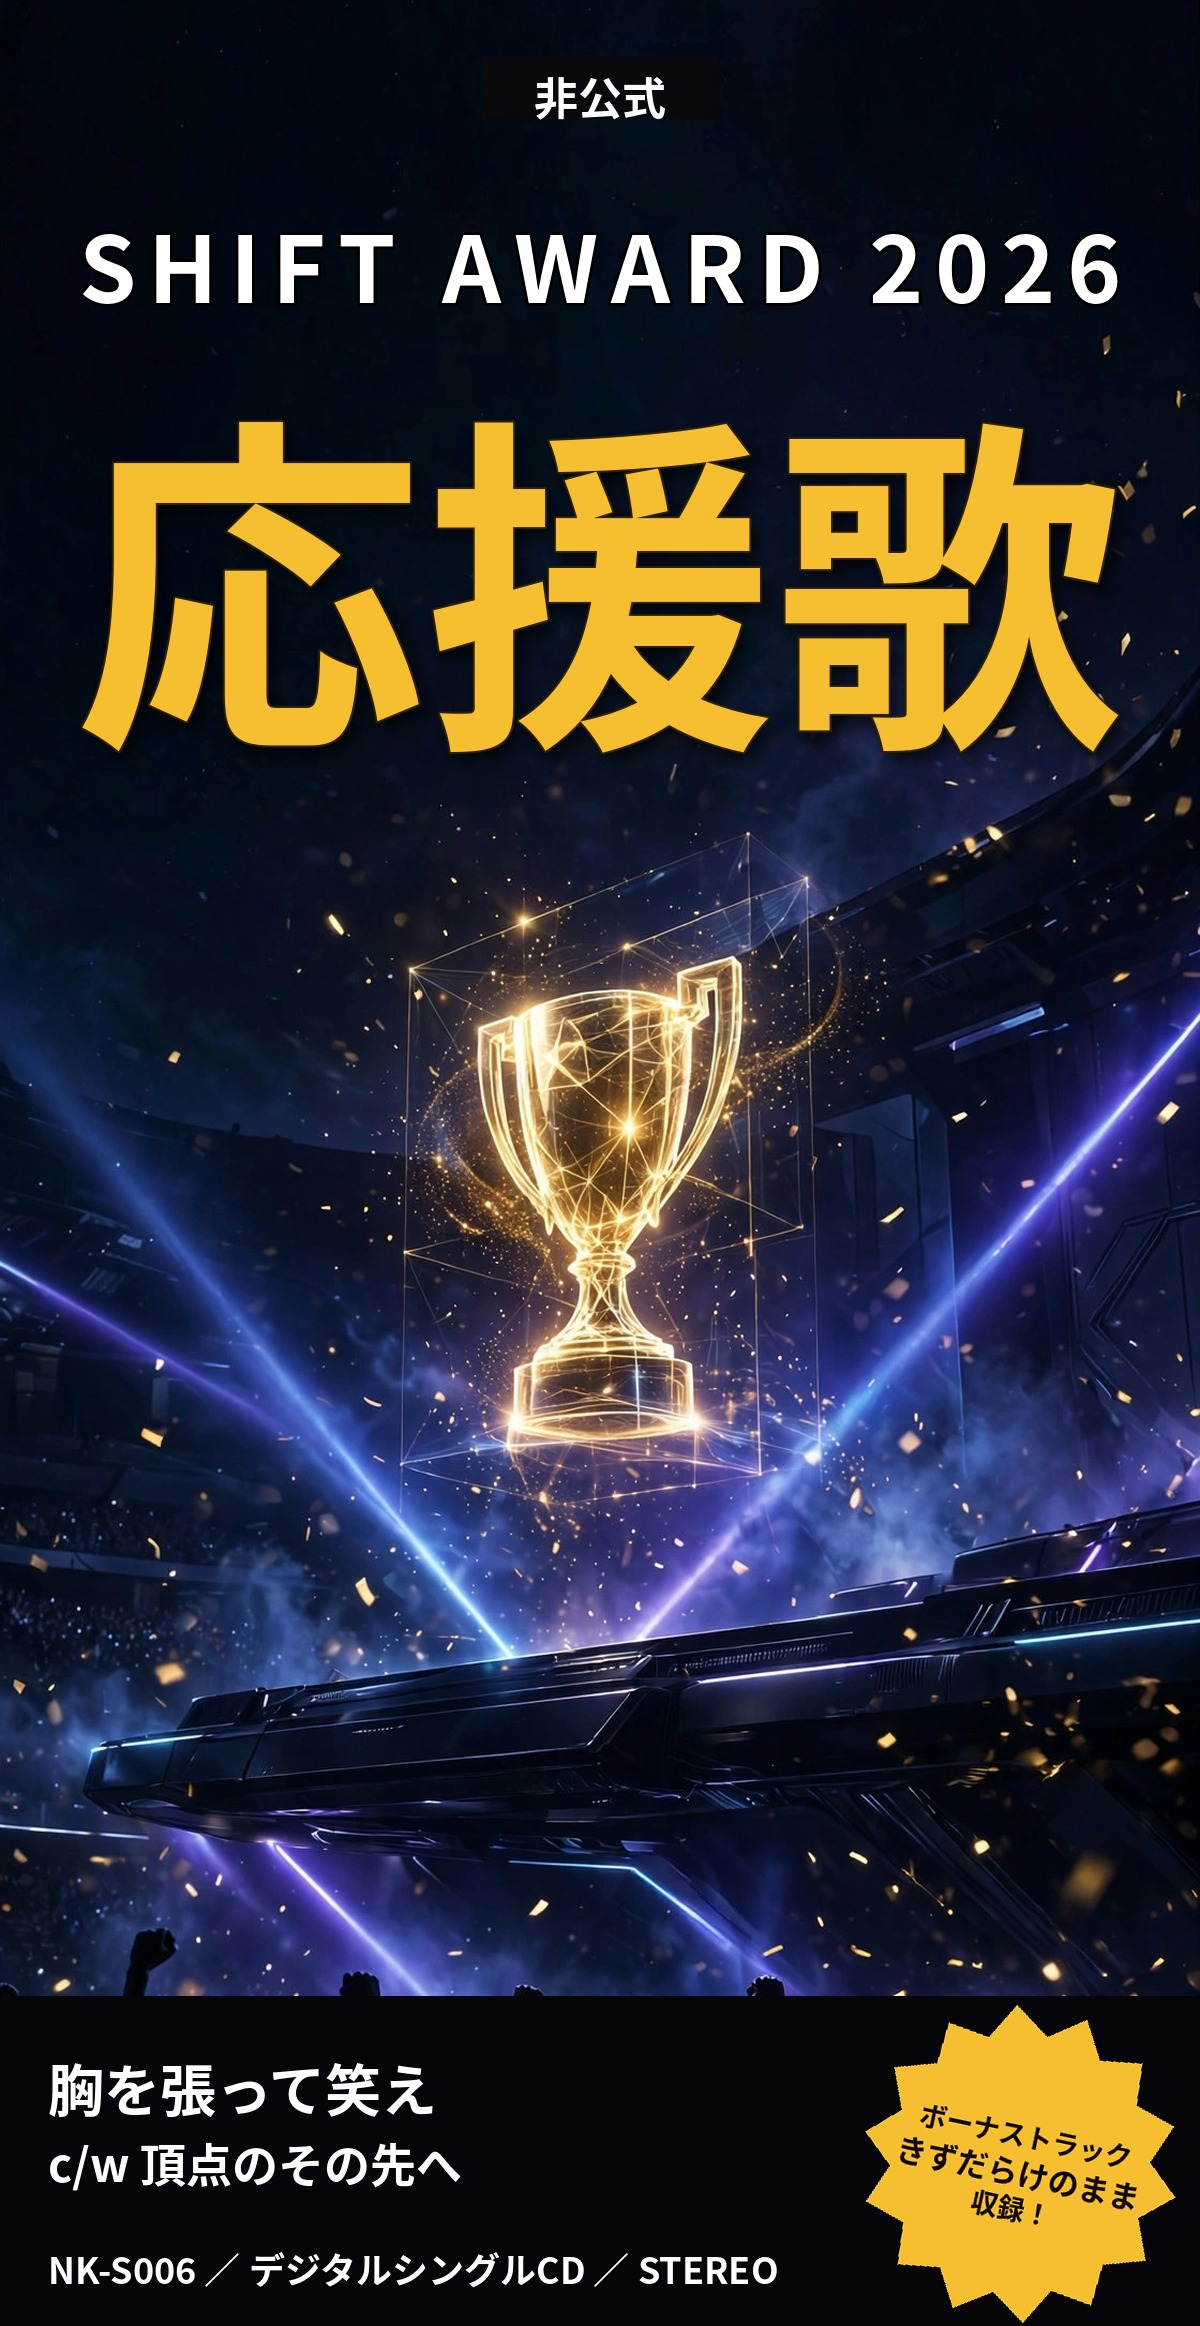
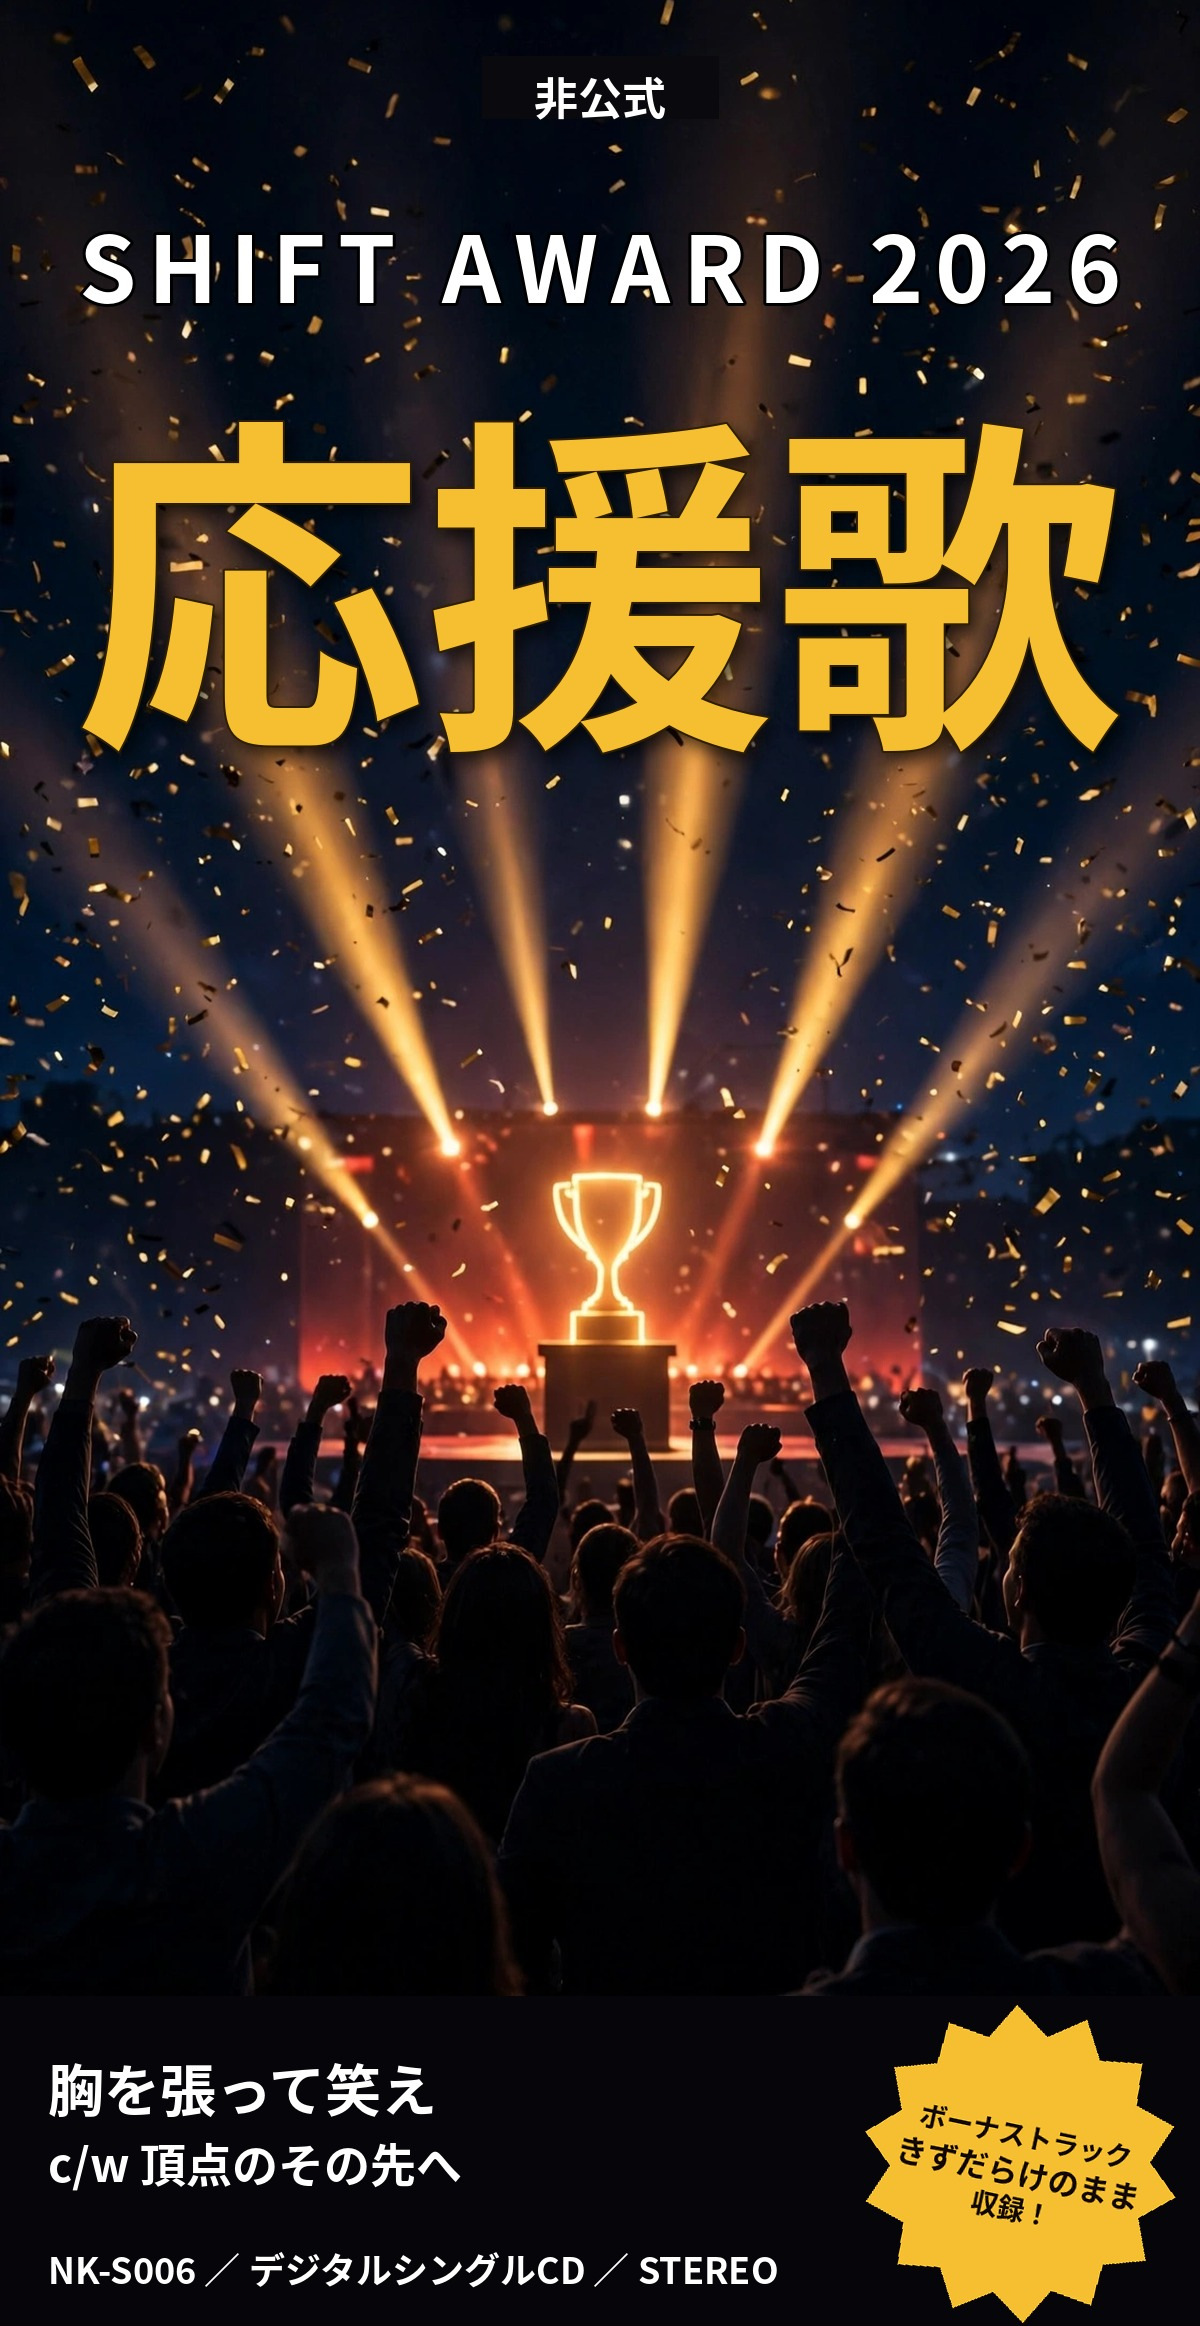
NK-S006 v1.1.1: 表ジャケットを絵A（授賞式ステージ）版に差し替え、アイコン再生成 (#10)

diff --git a/docs/HANDOVER.md b/docs/HANDOVER.md
@@ -1,6 +1,6 @@
 # 引き継ぎメモ
 
-更新: 2026-11-12・版 v1.1.0
+更新: 2026-11-12・版 v1.1.1
 
 【デジタルCD台帳反映用レポート】
 カタログ番号： NK-S006
@@ -8,7 +8,7 @@
 形態： シングル
 制作担当： NK-S006 制作チャット（Muse）
 状態： 確認待ち
-現行バージョン： 1.1.0
+現行バージョン： 1.1.1
 リポジトリ： tanabata-soft/aj85wu3vc2
 公開URL： https://tanabata-soft.github.io/aj85wu3vc2/
 収録曲数： 3
@@ -18,6 +18,7 @@ HANDOVER.md更新： 済
 
 ## 今の状態
 
+- v1.1.1（2026-11-12）: 表ジャケットを絵A（授賞式ステージ）版に差し替え（オーナー指示 2026-11-12。v1.1.0 で絵Cを採用したが、A・C の見比べの末に A へ変更。確認ポイント②の最終確定は絵A）。レイアウトは v1.1.0 の最終版と同一（上部中央の黒タグ「非公式」、間隔113px均等、下部黒帯＋星形シール）。アイコンも絵Aから再生成。ローカルは環境の書き込み障害のため未検証で、GitHub CI の check を関門とした（変更はジャケット・アイコン・版数のみ）。
 - v1.1.0（2026-11-12）: ボーナストラック『きずだらけのまま』を追加し全3曲に（オーナー指示 2026-11-12）。あわせて歌詞タップシーク（下記 v1.0.3 ローカル分）を同梱し、表ジャケットを刷新（絵C・ネオンアリーナ × シングルCD風デザイン、オーナー確定 2026-11-12。詳細は表ジャケットの項）。総再生時間 約8分41秒。ローカルの verify・e2e（18件）・shots 通過（検証結果の項参照）。単体プレビューは実行環境の書き込み制限（バンドル済みJSへの書き込みが EPERM で拒否される、2026-11-12 02:28頃から発生した環境側の問題）で再生成できず、実機確認は Pages の URL で行う。
 - v1.0.3（ローカルのみ・未公開、v1.1.0 に同梱）: 歌詞タップでその行から再生できるようにした（アルバム・シングル共通ルール、オーナー指示 2026-11-12。テンプレート digitalcd-engine commit 38b215d と同一の実装）。ドラッグによる歌詞スクロールではシークしない（タップ判定は移動量とスクロール量で分ける）。e2e にタップシーク／ドラッグではシークしないテストを追加（計18件）。シリーズ制作チャットがローカルに入れた変更で、単独では公開せず v1.1.0 に統合（2026-11-12 のチャット間調整）。
 - v1.1.0 公開記録: PR #7 を squash マージ（merge commit eb631ad5c3bfb2792f4ae6afab63ab8981a149b4）、ブランチ publish/nk-s006-v1.1.0 は削除済み。GitHub Pages 再デプロイ成功、https://tanabata-soft.github.io/aj85wu3vc2/ は HTTP 200、配信中 JS に version 1.1.0 と『きずだらけのまま』、新ジャケット（500,373 bytes）と track03 の音源アセットが含まれることを確認済み。CI の check は通過（e2e は従来どおりマージ条件にしていない）。今回は実行環境のシェル書き込み障害（後述）のため git push ではなく GitHub API（gh）でブランチ・コミットを作成した（author は従来どおり muse <muse@localhost>）。
@@ -32,7 +33,7 @@ HANDOVER.md更新： 済
   3. 『きずだらけのまま』ボーナストラック、Contemporary J-R&B、2:46（トリム後 166.42秒。素材は 2026-11-12 にオーナーが追加提出した MP4。アスファルトの裂け目から芽吹く双葉の絵）
 - 作業フォルダ: `~/workspace/single-nks006/repo/`（テンプレート `digitalcd-template` v1.0.0 をコピー。アプリID `nks006-shift-award`、version 1.0.0）。
 - ジャケットタイトルは今回だけの特殊対応で「SHIFT AWARD 2026 応援歌」。通常は表題曲と同名にするが、今回はこのタイトルを使う。シリーズのルールにしないこと。
-- 表ジャケット（確定、v1.1.0 で刷新）: 絵C（ネオンアリーナ、ホログラムの金トロフィー）に「シングルCD風」デザインを合成したもの（`~/workspace/single-nks006/jacket-candidates/candidate-c-final2.jpg`、合成は `single_style.py` の s2k）。体裁: 上部中央に黒タグ「非公式」（当初「CD SINGLE」だったが、オーナー指示で「非公式」に差し替え）、「SHIFT AWARD 2026」（白）、「応援歌」（金・大）、下部に黒帯（曲名「胸を張って笑え／c/w 頂点のその先へ」とクレジット行）と、金の星形シール（「ボーナストラック／きずだらけのまま／収録！」）。非公式・SHIFT AWARD・応援歌の間隔は文字の実インク基準で均等（113px）に調整し、応援歌はトロフィーとの距離を取るため上方に配置。オーナーが絵CとAの2案から C を選び確定（2026-11-12、確認ポイント②は刷新版で再確定）。候補は A〜F の6種×同デザインで比較した。v1.0.0〜v1.0.2 の表ジャケットは候補A（授賞式ステージ＋型A、白・黒縁タイトル）だった。
+- 表ジャケット（確定、v1.1.0 で刷新）: 絵C（ネオンアリーナ、ホログラムの金トロフィー）に「シングルCD風」デザインを合成したもの（`~/workspace/single-nks006/jacket-candidates/candidate-c-final2.jpg`、合成は `single_style.py` の s2k）。体裁: 上部中央に黒タグ「非公式」（当初「CD SINGLE」だったが、オーナー指示で「非公式」に差し替え）、「SHIFT AWARD 2026」（白）、「応援歌」（金・大）、下部に黒帯（曲名「胸を張って笑え／c/w 頂点のその先へ」とクレジット行）と、金の星形シール（「ボーナストラック／きずだらけのまま／収録！」）。非公式・SHIFT AWARD・応援歌の間隔は文字の実インク基準で均等（113px）に調整し、応援歌はトロフィーとの距離を取るため上方に配置。オーナーが絵CとAの2案から C を選び確定（2026-11-12、確認ポイント②は刷新版で再確定）。候補は A〜F の6種×同デザインで比較した。v1.0.0〜v1.0.2 の表ジャケットは候補A（授賞式ステージ＋型A、白・黒縁タイトル）だった。その後、A・C の見比べを経てオーナーが絵A（授賞式ステージ）への差し替えを指示（2026-11-12）。v1.1.1 からは絵A版（`candidate-a-final2.jpg`、レイアウトはC版と同一）が正式ジャケットで、絵C版は不採用（候補ファイルは残してある）。
 - 裏面 back.jpg（1200x2326）: 1・2曲目の曲ジャケットを上下に並べた結合画像。ボーナストラックの絵は裏面に載せない（シングルの基本ルール、オーナー指示 2026-11-12。曲目リストには BONUS 表記で載る）。『胸を張って笑え』の紙枠は実測で厚みが0〜37pxとばらつく荒い紙縁だったため、28px切り出しで妥協。上下の継ぎ目に90pxのクロスフェード。
 - bg.jpg（1080x1920）: テーマ色 #101a30 の色面。テーマカラーも #101a30。
 - 音源: 各MP4の音声トラックを末尾で切り、末尾無音を詰めた。『胸を張って笑え』175.66秒、『頂点のその先へ』179.17秒で切断（silencedetect -50dB、ffprobe実測 175.659 / 179.165秒）。『胸を張って笑え』冒頭には約1.0秒の無音がある（0〜1.02秒）。音源はトリム済みのまま収録。
@@ -72,7 +73,7 @@ HANDOVER.md更新： 済
 ### 仮置きリスト
 
 1. 曲順・表題曲は推奨案の仮置き（確認ポイント①未確定）。1.『胸を張って笑え』を表題曲、2.『頂点のその先へ』をカップリングとした理由: ファンク・ロックの表題曲で勢いよく開き、「We are SHIFT.」で締めるカップリングで終わる流れが、現場から頂点のその先へという物語に合うため。
-2. 表ジャケットは候補Aで確定（2026-11-11、オーナー確認・確認ポイント②完了）。その後 v1.1.0 で刷新し、絵C × シングルCD風デザインで再確定（2026-11-12、オーナー確認）。候補Bも `~/workspace/single-nks006/jacket-candidates/candidate-b.jpg` に保存してある（未使用）。
+2. 表ジャケットは候補Aで確定（2026-11-11、オーナー確認・確認ポイント②完了）。その後 v1.1.0 で刷新し、絵C × シングルCD風デザインで再確定（2026-11-12、オーナー確認）。さらに A・C の見比べを経て、v1.1.1 で絵A × 同デザインに差し替えて最終確定（2026-11-12、オーナー指示）。候補Bも `~/workspace/single-nks006/jacket-candidates/candidate-b.jpg` に保存してある（未使用）。
 3. 歌詞の漢字・時刻は字幕由来で最終確認待ち（確認ポイント③）。時刻はASR照合で全行付け直し済み（下記）。字幕に抜けている行はなかった（39行・45行とも歌唱を確認）。要確認の漢字:
    - 『胸を張って笑え』「砦を飛び出しゃ広い海」の「砦」（読み: とりで、でよいか）。
    - 『頂点のその先へ』「俺たちが導く 新しい時代の道標となる人」の「道標」（読み: どうひょう、でよいか。「道標となる人」という言い回しでよいか）。
